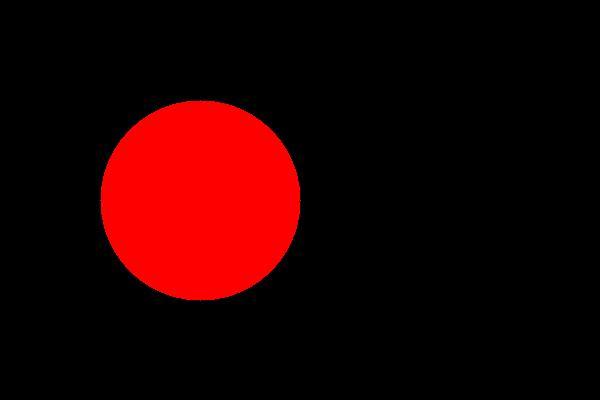
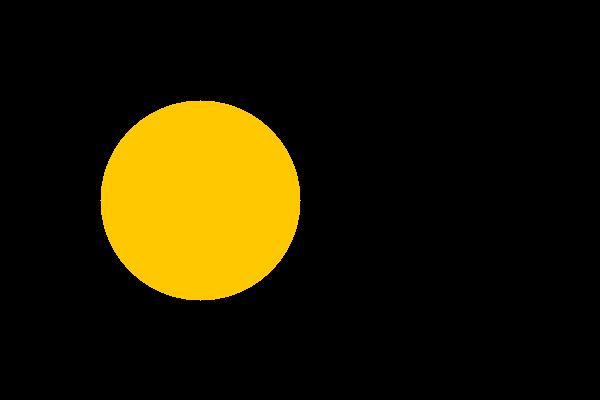
paint with rgb

Changed region(s): [[0.15, 0.24, 0.51, 0.75]]

diff --git a/src/raytracing/Main.java b/src/raytracing/Main.java
@@ -10,13 +10,11 @@ public class Main {
 	public static void main(String[] args) {
 		
 		Scene scene = new Scene(600, 400);
-		scene.addObject(new Sphere(new Vector(200.0, 200.0, 100.0), 100.0, new Material(Color.RED, 0.0, 0.0)));
+		scene.addObject(new Sphere(new Vector(200.0, 200.0, 100.0), 100.0, new Material(Color.ORANGE, 0.0, 0.0)));
 		
 		RayTracer rt = new RayTracer(scene);
 		rt.execute();
 		rt.getImage().save("basic.jpg", "jpeg");
-		
-		System.out.println(new Vector(1.0, 1.0, 1.0));
 		
 	}
 

diff --git a/src/image/Image.java b/src/image/Image.java
@@ -33,6 +33,10 @@ public class Image {
 		image.setRGB(x, y, color.getRGB());
 	}
 	
+	public void writePixel(int x, int y, int RGB) {
+		image.setRGB(x, y, RGB);
+	}
+	
 	public BufferedImage getImage() {
 		return image;
 	}
